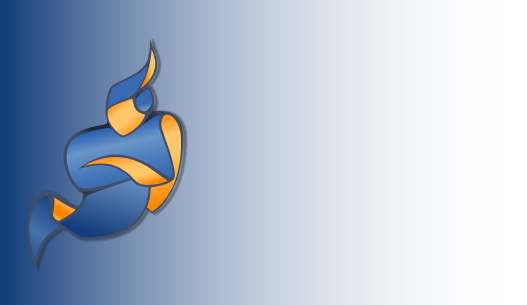
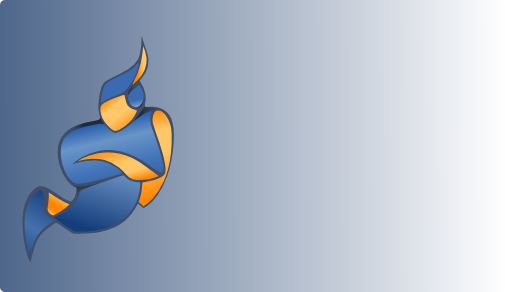
- Allows to set color constants for about window and the splash screen
- Slightly changes the about window and the splash screen backgrounds

git-svn-id: https://svn.java.net/svn/jitsi~svn/trunk@3355 198c5059-ef06-4ec0-9a75-fdd6b0ef00a6

diff --git a/src/net/java/sip/communicator/plugin/branding/WelcomeWindow.java b/src/net/java/sip/communicator/plugin/branding/WelcomeWindow.java
@@ -51,42 +51,44 @@ public class WelcomeWindow extends JDialog
         this.titleLabel.setAlignmentX(Component.RIGHT_ALIGNMENT);
 
         this.versionLabel.setFont(Constants.FONT.deriveFont(Font.BOLD, 18));
-        this.versionLabel.setForeground(Color.GRAY);
+        this.versionLabel.setForeground(Constants.TITLE_COLOR);
         this.versionLabel.setAlignmentX(Component.RIGHT_ALIGNMENT);
 
-        this.logoArea.setFont(Constants.FONT.deriveFont(Font.BOLD, 12));
         this.logoArea.setForeground(Constants.TITLE_COLOR);
+        this.logoArea.setFont(Constants.FONT.deriveFont(Font.BOLD, 12));
         this.logoArea.setOpaque(false);
         this.logoArea.setLineWrap(true);
         this.logoArea.setWrapStyleWord(true);
         this.logoArea.setEditable(false);
         this.logoArea.setPreferredSize(new Dimension(100, 20));
         this.logoArea.setAlignmentX(Component.RIGHT_ALIGNMENT);
-        this.logoArea.setBorder(BorderFactory.createEmptyBorder(20, 180, 0, 0));
+        this.logoArea.setBorder(BorderFactory.createEmptyBorder(20, 190, 0, 0));
 
         this.rightsArea.setContentType("text/html");
         this.rightsArea.appendToEnd(Resources.getString("welcomeMessage",
             new String[]{
+                Constants.TEXT_COLOR,
                 BrandingResources.getApplicationString("productName"),
-                BrandingResources.getApplicationString("productWebSite")}));
+                BrandingResources.getApplicationString("productWebSite")
+                }));
 
         this.rightsArea.setPreferredSize(new Dimension(50, 50));
         this.rightsArea
-                .setBorder(BorderFactory.createEmptyBorder(0, 180, 0, 0));
+                .setBorder(BorderFactory.createEmptyBorder(0, 190, 0, 0));
         this.rightsArea.setOpaque(false);
         this.rightsArea.setEditable(false);
         this.rightsArea.setAlignmentX(Component.RIGHT_ALIGNMENT);
 
         this.licenseArea.setContentType("text/html");
-        this.licenseArea.appendToEnd(Resources.getString("license", new String[]
-        {
-            "<a href=http://sip-communicator.org>"
-                    + "http://sip-communicator.org</a>"
-        }));
+        this.licenseArea.appendToEnd(Resources.getString("license",
+            new String[]
+                       {
+                            Constants.TEXT_COLOR
+                       }));
 
         this.licenseArea.setPreferredSize(new Dimension(50, 20));
         this.licenseArea.setBorder(BorderFactory
-                .createEmptyBorder(0, 180, 0, 0));
+                .createEmptyBorder(0, 190, 0, 0));
         this.licenseArea.setOpaque(false);
         this.licenseArea.setEditable(false);
         this.licenseArea.setAlignmentX(Component.RIGHT_ALIGNMENT);
@@ -201,9 +203,9 @@ public class WelcomeWindow extends JDialog
 
             g2.drawImage(bgImage, 0, 0, null);
 
-            g2.setColor(new Color(255, 255, 255, 170));
-
-            g2.fillRect(0, 0, getWidth(), getHeight());
+//            g2.setColor(new Color(255, 255, 255, 170));
+//
+//            g2.fillRect(0, 0, getWidth(), getHeight());
             
             g2.setColor(new Color(150, 150, 150));
             

diff --git a/src/net/java/sip/communicator/plugin/branding/AboutWindow.java b/src/net/java/sip/communicator/plugin/branding/AboutWindow.java
@@ -63,7 +63,7 @@ public class AboutWindow extends JDialog implements HyperlinkListener,
         this.titleLabel.setAlignmentX(Component.RIGHT_ALIGNMENT);
 
         this.versionLabel.setFont(Constants.FONT.deriveFont(Font.BOLD, 18));
-        this.versionLabel.setForeground(Color.GRAY);
+        this.versionLabel.setForeground(Constants.TITLE_COLOR);
         this.versionLabel.setAlignmentX(Component.RIGHT_ALIGNMENT);
 
         this.logoArea.setFont(Constants.FONT.deriveFont(Font.BOLD, 14));
@@ -78,7 +78,8 @@ public class AboutWindow extends JDialog implements HyperlinkListener,
 
         this.rightsArea.setContentType("text/html");
 
-        this.rightsArea.appendToEnd(Resources.getString("copyright"));
+        this.rightsArea.appendToEnd(Resources.getString("copyright",
+            new String[]{Constants.TEXT_COLOR}));
 
         this.rightsArea.setPreferredSize(new Dimension(50, 20));
         this.rightsArea
@@ -89,11 +90,12 @@ public class AboutWindow extends JDialog implements HyperlinkListener,
         this.rightsArea.addHyperlinkListener(this);
 
         this.licenseArea.setContentType("text/html");
-        this.licenseArea.appendToEnd(Resources.getString("license"));
+        this.licenseArea.appendToEnd(Resources.getString("license",
+            new String[]{Constants.TEXT_COLOR}));
 
         this.licenseArea.setPreferredSize(new Dimension(50, 20));
-        this.licenseArea.setBorder(BorderFactory.createEmptyBorder(10, 180, 0,
-                0));
+        this.licenseArea.setBorder(
+            BorderFactory.createEmptyBorder(10, 180, 0, 0));
         this.licenseArea.setOpaque(false);
         this.licenseArea.setEditable(false);
         this.licenseArea.setAlignmentX(Component.RIGHT_ALIGNMENT);
@@ -167,9 +169,9 @@ public class AboutWindow extends JDialog implements HyperlinkListener,
 
             g2.drawImage(bgImage, 0, 0, null);
 
-            g2.setColor(new Color(255, 255, 255, 100));
-
-            g2.fillRect(0, 0, getWidth(), getHeight());
+//            g2.setColor(new Color(255, 255, 255, 100));
+//
+//            g2.fillRect(0, 0, getWidth(), getHeight());
         }
     }
 

diff --git a/src/net/java/sip/communicator/plugin/branding/Constants.java b/src/net/java/sip/communicator/plugin/branding/Constants.java
@@ -27,10 +27,18 @@ public class Constants
      */
 
     /**
-     * Dark blue color used in the About Window.
+     * Dark blue color used in the about window and the splash screen.
      */
     public static final Color TITLE_COLOR
-        = new Color(Resources.getColor("controlDarkShadow"));
+        = new Color(Integer.parseInt(
+            Resources.getColor("splashScreenTitleColor"), 16));
+
+    /**
+     * Text color used in the about window and the splash screen.
+     */
+    public static final String TEXT_COLOR
+        = Resources.getColor("splashScreenTextColor");
+
 
     /*
      * ======================================================================

diff --git a/src/net/java/sip/communicator/plugin/branding/Resources.java b/src/net/java/sip/communicator/plugin/branding/Resources.java
@@ -89,17 +89,17 @@ public class Resources
      *
      * @return An internationalized string corresponding to the given key.
      */
-    public static int getColor(String key)
+    public static String getColor(String key)
     {
         try
         {
-            return Integer.parseInt(COLOR_RESOURCE_BUNDLE.getString(key), 16);
+            return COLOR_RESOURCE_BUNDLE.getString(key);
         }
         catch (MissingResourceException e)
         {
             log.error("Missing color resource.", e);
 
-            return 0xFFFFFF;
+            return "FFFFFF";
         }
     }
 }
